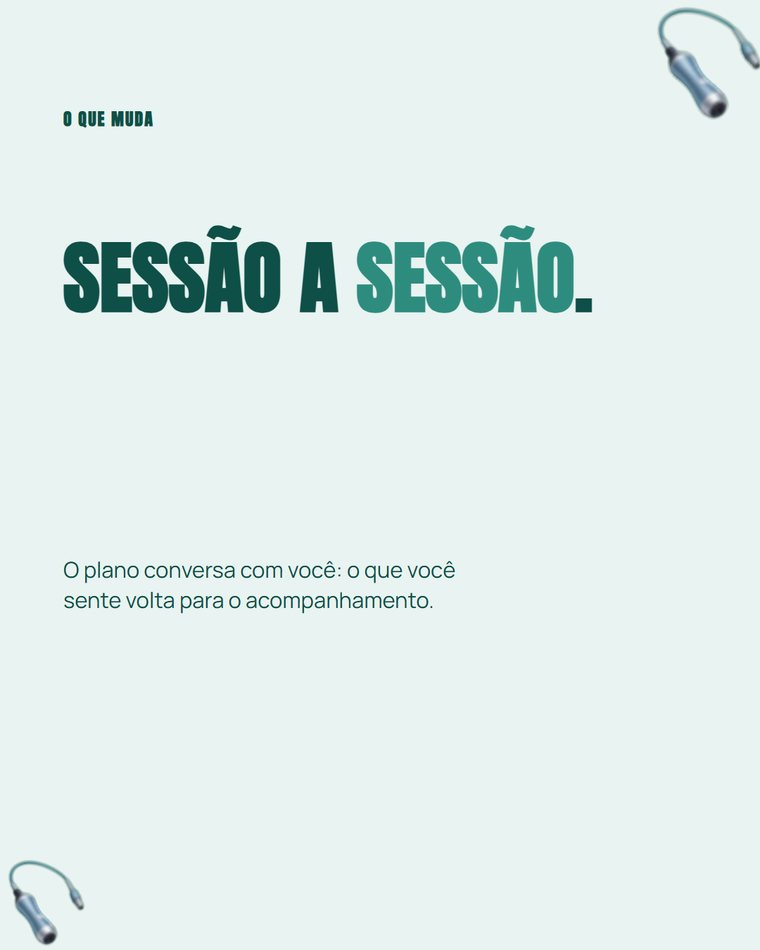
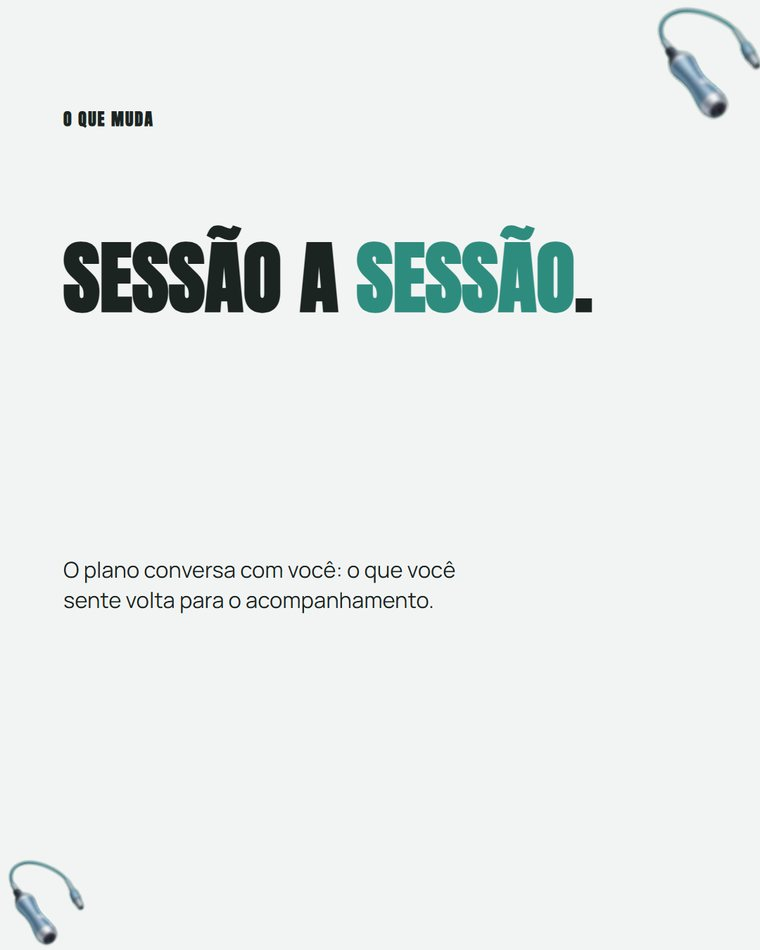
fase 3: clinical vira adaptavel — paleta estrutural neutra
O pack nasceu inteiro verde: paper, ink, muted e wm eram variacoes de teal,
e as formulas de imagem mandavam gerar em "tons verde-petroleo". Na fita
roxa da certificacao isso apareceu como "DOR NAO E UM" verde-escuro ao lado
de "BOTAO SO" roxo, e fotos esverdeadas contra UI roxa.

Tokens estruturais agora sao neutros com desvio sutil de temperatura
(#F2F4F3 / #1C2422 / #6B7573 / #E2E7E5) — cinza morto tambem seria defeito.
A cor entra so por data-variable. Provado nas tres marcas: texto neutro,
destaque na cor do cliente.

images.md reescrito: paleta neutra dessaturada, com a personalidade vindo de
luz direcional, profundidade rasa, materia e enquadramento. "Adaptavel nao e
foto branca ou bege" — e o teste antes de aprovar asset: imagine a peca em
roxo e em laranja.

PACKS.md ganha §2b: adaptavel ou paleta fixa e DECISAO explicita antes dos
tokens, com default adaptavel (o Gustavo estima 98% dos casos). O pack.json
declara adaptavel: true.

assemble.js ganha --token=nome:#HEX para provar paleta alternativa antes de
gravar.

Ressalva: os assets das runs antigas continuam verdes — so run nova prova
que a foto acompanha.

diff --git a/engine/assemble.js b/engine/assemble.js
@@ -29,7 +29,12 @@ const REPO = path.resolve(__dirname, "..");
   // placeholder, e quem tem data-variable troca de cor na plataforma. Serve
   // para provar que a peça funciona com marcas diferentes (PACKS.md §4).
   const argPrimary = (process.argv.find((a) => a.startsWith("--primary=")) || "").split("=")[1];
-  const tokens = argPrimary ? { ...pack.tokens, accent: argPrimary } : pack.tokens;
+  // --token=nome:#HEX (repetível) sobrescreve qualquer token: serve para provar
+  // uma paleta estrutural alternativa antes de gravá-la no pack.json
+  const overrides = Object.fromEntries(process.argv
+    .filter((a) => a.startsWith("--token="))
+    .map((a) => a.slice("--token=".length).split(":")));
+  const tokens = { ...pack.tokens, ...(argPrimary ? { accent: argPrimary } : {}), ...overrides };
   const tokensCss = ":root{" + Object.entries(tokens).map(([k, v]) => `--${k}:${v}`).join(";") + "}";
   const dsHref = "file:///" + path.join(REPO, "engine", "design-system.css").replace(/\\/g, "/");
 

diff --git a/packs/clinical-photo-editorial/tecnicas.md b/packs/clinical-photo-editorial/tecnicas.md
@@ -6,10 +6,11 @@ gerações. Exemplos em `exemplos/` (partida, nunca fôrma).
 
 ## Assinaturas (o que faz a peça ser DESTE pack)
 
-1. Tipografia display teal GIGANTE em duo-tom (palavra-chave no accent),
-   entrelaçada com o cutout do profissional na capa.
+1. Tipografia display GIGANTE na COR DA MARCA em duo-tom (a palavra-chave
+   ganha o segundo peso via `data-variable-alpha`), entrelaçada com o cutout
+   do profissional na capa — o texto cruza o FUNDO da figura, nunca o corpo.
 2. Objetos do tema DESFOCADOS (bokeh de primeiro plano) como decoração
-   assimétrica fundindo no papel menta.
+   assimétrica fundindo no papel neutro.
 3. Composição assimétrica em camadas; pills outline; clean robusto.
 4. **Arcos de circunferência em traço fino** ao fundo, cortados pelas bordas —
    a "profundidade de papel" da referência. Vêm de um SVG ao lado da fita
@@ -47,7 +48,7 @@ mesmo esqueleto continuam sendo defeito.
 
 | Padrão | Composição | Bom para | Cuidado |
 |---|---|---|---|
-| **capa** | arcos de circunferência em traço fino (SVG) cortados pelas bordas + `professionalPhoto` na metade direita + display duo-tom entrelaçando a figura + pill outline e CTA | abertura da fita | a 2ª palavra do duo-tom INVADE a figura — é o entrelaçamento da referência, não um acidente |
+| **capa** | arcos de circunferência em traço fino (SVG) cortados pelas bordas + `professionalPhoto` na metade direita + display duo-tom entrelaçando a figura + pill outline e CTA | abertura da fita | o duo-tom cruza o FUNDO da figura (o espaço entre cabeça e ombro, o ar em volta) — nunca o corpo no ponto de maior contraste: texto sobre jaleco branco fica ilegível |
 | **cta** | espelha a capa: mesmos arcos, profissional à ESQUERDA e leitura à direita, com CTA e logo | fechamento da fita | a inversão é o que impede o último slide de parecer a capa repetida |
 | **foto-metade-sangrando** | figura toma a metade direita inteira, do topo ao rodapé; leitura à esquerda; número grande de âncora | tese+ressalva, passo, dado | foto vertical com o sujeito no terço direito |
 | **full-bleed-com-faixa** | slide todo é foto; texto numa faixa sólida no terço inferior, encostada em três bordas | tese+ressalva, citação, dado | com foto clara no rodapé a faixa precisa ser `data-tone="ink"` |
@@ -94,7 +95,7 @@ baixo é CTA, logo ou decor — não texto de leitura.
   professionalPhoto.
 - **Full-bleed + overlay + card**: foto full-bleed, véu `data-overlay` e card
   compacto por cima — o slide de maior impacto; 1× por fita.
-- **Fundos alternando**: papel menta na maioria, 1 slide invertido (accent)
+- **Fundos alternando**: papel neutro na maioria, 1 slide invertido (accent)
   como respiro — nunca fita monocromática.
 - **Fechamento espelha a abertura**: o CTA leva o `professionalPhoto` como a
   capa — a fita abre e fecha com o profissional presente.
@@ -111,8 +112,8 @@ houver conteúdo real:
 
 ## Regras de imagem (ver images.md para fórmulas)
 
-- Fotos: clínicas, cinematográficas, tons teal/verde profundo; sem rostos
-  identificáveis em fotos geradas.
+- Fotos: clínicas, cinematográficas, **paleta neutra dessaturada** (a cor vem
+  da marca, não da foto — ver images.md); sem rostos identificáveis.
 - **Pessoa = slot da plataforma.** O profissional é sempre
   `ds-slot data-slot="professionalPhoto"` com o placeholder canônico
   (`engine/assets/professional-photo-*.b64.txt`). Gerar avatar/ilustração de

diff --git a/packs/clinical-photo-editorial/images.md b/packs/clinical-photo-editorial/images.md
@@ -1,17 +1,41 @@
 # Imagens — clinical-photo-editorial
 
-**Registro:** clínica premium; papel menta #E9F3F1; teal profundo; luz suave;
-NUNCA estourado; nunca resultado clínico real. O pack não guarda assets — TODA
-run gera fotos/decors na hora, específicos do tema, em `artifacts/runs/<slug>/assets/`.
+**Registro:** clínica premium, editorial, cinematográfico. Luz direcional suave,
+sombra presente, profundidade rasa; NUNCA estourado, nunca resultado clínico
+real, nunca banco de imagens genérico. O pack não guarda assets — TODA run gera
+fotos/decors na hora, específicos do tema, em `artifacts/runs/<slug>/assets/`.
+
+## Cor nas imagens: neutra, com personalidade
+
+A foto **não carrega a cor da marca** — quem veste a marca é o texto e as caixas
+(`data-variable`). Foto em cor fixa do pack destoa assim que o cliente não tem
+aquela paleta: uma cena verde-petróleo numa peça roxa parece erro de montagem.
+
+Isso **não** significa foto branca, bege ou sem graça. A personalidade vem de:
+
+- **Luz**: direcional, lateral, com sombra desenhada — não iluminação chapada.
+- **Profundidade**: foco raso, fundo desfocado, primeiro plano presente.
+- **Matéria**: superfícies reais (tecido, metal escovado, vidro, pele), textura
+  visível.
+- **Enquadramento**: detalhe fechado ou ambiente amplo em penumbra — nunca o
+  "plano médio de catálogo".
+- **Neutro escuro ou neutro claro**, com no máximo um desvio sutil de
+  temperatura — o suficiente para não parecer laboratório fotográfico.
+
+Se a marca for muito saturada, puxe a foto para o neutro mais frio ou mais
+quente **na direção oposta**, para a cor da marca ressaltar em vez de brigar.
 
 | Slot | Fórmula |
 |------|---------|
 | decor | OBJETO DO TEMA (aparelho, óculos, instrumento) JÁ GERADO extremamente fora de foco ("extremely out of focus, dreamy bokeh, barely recognizable"), fundo 100% transparente (RGBA), objeto INTEIRO com margem generosa nas 4 bordas. Blur em pós-processo (PIL) é PROIBIDO. Nitidez, objeto genérico ou fundo chapado = reprovado |
-| foto de miolo | "detalhe de ambiente/procedimento clínico premium — {conceito} — tons verde-petróleo, luz direcional suave, editorial, sem pessoas identificáveis, sem texto" |
-| foto imersiva (full-bleed) | "ambiente clínico amplo em penumbra premium, tons teal, luz pontual suave, sem texto" |
+| foto de miolo | "detalhe de ambiente/procedimento clínico premium — {conceito} — **paleta neutra dessaturada**, luz direcional suave com sombra presente, profundidade rasa, editorial, sem pessoas identificáveis, sem texto" |
+| foto imersiva (full-bleed) | "ambiente clínico amplo em penumbra premium, **tons neutros escuros**, luz pontual suave criando contraste, sem texto" |
 | foto do par contínuo | paisagem larga (>=1792x1024), sujeito perto do CENTRO — vai INTEIRA na `.fita-layer` sobre a fronteira; a emenda corta a foto |
 | foto_profissional | slot da plataforma (placeholder canônico no render) |
 
 **Composição do decor:** grande, colado numa borda (cortado por ela — "voando"),
 rotação leve (10–20°); nunca pequeno/solto no meio do canvas; nunca sobre
 professionalPhoto, texto, CTA ou logo — só background limpo.
+
+**Teste antes de aprovar um asset:** imagine a peça com uma marca roxa e outra
+laranja. Se a foto brigar com alguma das duas, ela está colorida demais.

diff --git a/PACKS.md b/PACKS.md
@@ -22,7 +22,28 @@ Olhando SÓ a reference.png + o [`engine/CATALOG.md`](engine/CATALOG.md):
 2b. **`exemplos/`** — esqueletos/fitas aprovados como ponto de partida (nunca fôrma; duas gerações com o mesmo esqueleto são defeito).
 3. **`images.md`** — fórmulas de prompt por slot de imagem (estilo/luz/registro, nunca assunto) + o que é slot de plataforma vs gerada.
 4. **`lessons.md`** — inicia com as lições herdadas RELEVANTES (as que viraram estrutura, anote como estrutura; não copie história morta).
-5. `status: draft` no pack.json.
+5. **`adaptavel: true|false`** — a decisão que define a paleta (ver §2b).
+6. `status: draft` no pack.json.
+
+## 2b. Adaptável ou de paleta fixa (decida ANTES dos tokens)
+
+**Default: adaptável.** ~98% dos packs precisam vestir qualquer marca — o
+cliente que usa a fábrica tem a cor dele, não a da referência.
+
+| | Adaptável (padrão) | Paleta fixa |
+|---|---|---|
+| `paper`/`ink`/`muted`/`wm` | **neutros**, com desvio sutil de temperatura para não virar cinza morto | cores do estilo |
+| Cor da marca | entra por `data-variable` (primary/accent) em texto, caixas, números | decorativa apenas |
+| Fotos | paleta neutra dessaturada — personalidade vem de luz, matéria e enquadramento | podem carregar a cor |
+| `fit` | qualquer marca | declare a restrição (ex. "marcas de paleta fria") |
+
+**Adaptável não é sem graça.** A personalidade vem de composição, tipografia,
+luz e matéria — não de tingir tudo. Foto neutra não é foto branca ou bege: é
+luz direcional, sombra desenhada, foco raso, superfície real.
+
+**Prova obrigatória** (§3, prova de Marca): renderize com uma cor bem diferente
+da referência. Se algo brigar — fundo esverdeado contra marca roxa, foto na cor
+antiga, texto em `ink` colorido — o pack não é adaptável ainda.
 
 ## 3. Construção e validação — POR FITA, ponta a ponta
 

diff --git a/packs/clinical-photo-editorial/lessons.md b/packs/clinical-photo-editorial/lessons.md
@@ -26,3 +26,5 @@
 - 2026-08-08 (auditoria das tres provas, PACKS.md §3): **falha na prova de miolo**. A reference.png e uma CAPA unica — o pack nunca teve fonte para o miolo, e o unico exemplar de fita completa (fita-aprovada-gram-teste-1, removido) carregava os defeitos que a fabrica reproduzia. Correcao: seis esqueletos em exemplos/miolos/ + tabela formato -> tratamento no tecnicas.md. **Pendente**: referencias reais de miolo (Gustavo) para extrair a assinatura visual do estilo no miolo — os esqueletos resolvem estrutura, nao identidade.
 
 - 2026-08-09 (certificacao com prova de marca, fita roxa de 6): slides 2 e 3 com foto-metade-sangrando espelhada — fotos DIFERENTES, uma a direita e outra a esquerda, se tocando na emenda. Nao e par (nada atravessa) nem mudanca de padrao (mesmo tratamento). Le como par espelhado quebrado. Causa: o tecnicas.md descreve slides ISOLADOS e o designer escolhia o tratamento olhando so o formato do conteudo, nunca o vizinho. Virou lei "cada slide responde ao anterior" em geral.md, R13 no judge, pergunta obrigatoria na fatia do miolo e secao de encaixe no tecnicas.md. Tambem nesta fita: headline da capa atropelando o professionalPhoto (o "R?" ilegivel sobre o jaleco) — entrelacar e cruzar o FUNDO da figura, nao cobrir o corpo no ponto de maior contraste.
+
+- 2026-08-09 (fase 3, adaptabilidade): o pack nasceu com paleta INTEIRA verde (paper/ink/muted/wm eram variacoes de teal) e as formulas de imagem mandavam gerar em "tons verde-petroleo". Na fita roxa da certificacao isso apareceu como "DOR NAO E UM" verde-escuro + "BOTAO SO" roxo, e fotos esverdeadas contra UI roxa. Tokens estruturais viraram neutros (#F2F4F3 / #1C2422 / #6B7573 / #E2E7E5) e as formulas pedem paleta neutra dessaturada — a personalidade vem de luz, materia e enquadramento. Os assets das runs antigas continuam verdes: so run nova prova.
